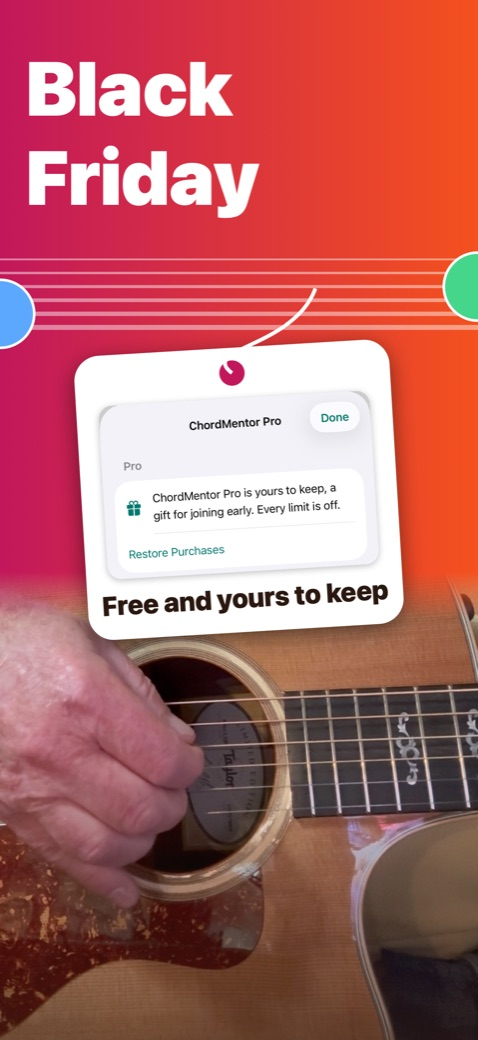
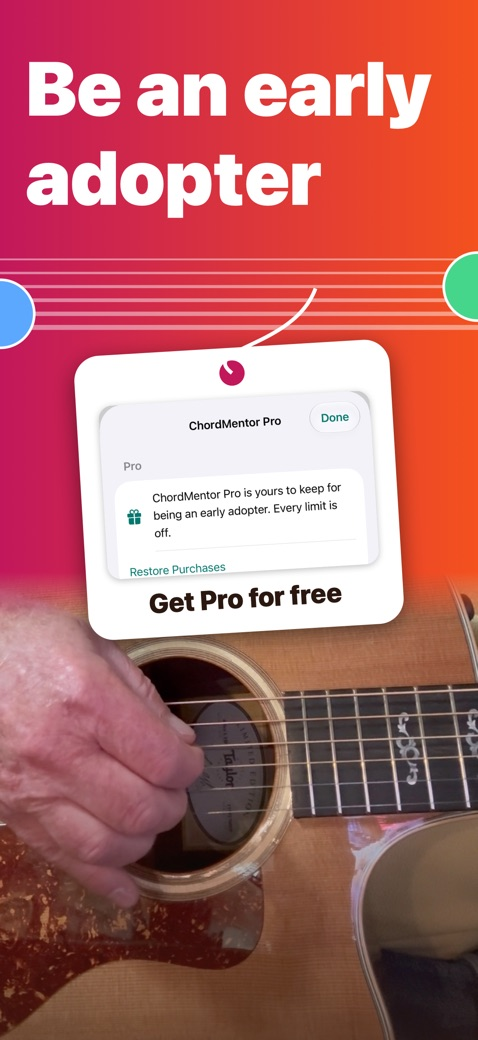
Early adopter offer replaces Black Friday; new mission on the home page; Pro will be a one-time purchase

Changed region(s): [[0.0586, 0.0615, 0.9079, 0.2154], [0.205, 0.4615, 0.8201, 0.6154], [0.41, 0.4, 0.5272, 0.4308]]

diff --git a/index.html b/index.html
@@ -3,32 +3,32 @@
 <head>
 <meta charset="utf-8">
 <meta name="viewport" content="width=device-width, initial-scale=1">
-<title>ChordMentor: Chord Changes</title>
-<meta name="description" content="Finger picking and strum drills for guitarists teaching themselves: change chords on the beat while a guide guitar plays along. iPhone, iPad and Mac. Free to use; Pro is a one-time purchase.">
+<title>ChordMentor: Skills &amp; Drills</title>
+<meta name="description" content="Build the skills behind smooth guitar playing: chord changes that flow, strumming, finger picking, rhythm and timing, new chords and speed, with a guide guitar playing along. iPhone, iPad and Mac. Free to use; Pro will be a one-time purchase.">
 <link rel="icon" href="images/icon.png">
 <link rel="stylesheet" href="style.css">
 </head>
 <body>
-<a class="promo-bar" href="https://apps.apple.com/app/id6827199615">Black Friday deal for early adopters: ChordMentor Pro is free and yours to keep. Download by December 15 ›</a>
+<a class="promo-bar" href="https://apps.apple.com/app/id6827199615">Early adopter offer: download ChordMentor now and Pro is yours to keep. Every limit is off ›</a>
 <header class="hero">
   <img class="icon" src="images/icon.png" alt="" width="96" height="96">
   <h1>ChordMentor</h1>
-  <p class="tag">Finger Picking &amp; Strum Drills</p>
-  <p class="lede">You know the shapes. ChordMentor drills the hard part: changing chords on the beat while you pick or strum, with a guide guitar playing along at the tempo you set.</p>
+  <p class="tag">Guitar skills, one short drill at a time</p>
+  <p class="lede">ChordMentor builds the skills behind smooth playing: chord changes that flow, strumming, finger picking, rhythm and timing, new chords and speed. A guide guitar plays along at the tempo you set, and beat lights show where you are in the pattern.</p>
   <div class="gift-card">
-    <span class="gift-badge"><svg viewBox="0 0 24 24" width="18" height="18" aria-hidden="true"><path fill="currentColor" d="M20 7h-2.2A3 3 0 0 0 12 3.8 3 3 0 0 0 6.2 7H4a1 1 0 0 0-1 1v3a1 1 0 0 0 1 1h7V7h2v5h7a1 1 0 0 0 1-1V8a1 1 0 0 0-1-1Zm-11-.1A1.1 1.1 0 1 1 10.9 6v.9H9a1 1 0 0 1 0-.1Zm6 .1h-2V6A1.1 1.1 0 1 1 15 7ZM4 13v7a1 1 0 0 0 1 1h6v-8H4Zm9 0v8h6a1 1 0 0 0 1-1v-7h-7Z"/></svg> Black Friday deal</span>
-    <p class="gift-price">ChordMentor Pro <s>$4.99</s> <strong>Free</strong></p>
-    <p class="gift-terms">For early adopters: download by December 15 and Pro is yours to keep. Every limit is off, on all your devices.</p>
+    <span class="gift-badge"><svg viewBox="0 0 24 24" width="18" height="18" aria-hidden="true"><path fill="currentColor" d="M20 7h-2.2A3 3 0 0 0 12 3.8 3 3 0 0 0 6.2 7H4a1 1 0 0 0-1 1v3a1 1 0 0 0 1 1h7V7h2v5h7a1 1 0 0 0 1-1V8a1 1 0 0 0-1-1Zm-11-.1A1.1 1.1 0 1 1 10.9 6v.9H9a1 1 0 0 1 0-.1Zm6 .1h-2V6A1.1 1.1 0 1 1 15 7ZM4 13v7a1 1 0 0 0 1 1h6v-8H4Zm9 0v8h6a1 1 0 0 0 1-1v-7h-7Z"/></svg> Early adopter offer</span>
+    <p class="gift-price">ChordMentor Pro <strong>yours to keep</strong></p>
+    <p class="gift-terms">Pro is yours to keep if your first download comes before the offer ends. Every limit is off, on all your devices.</p>
   </div>
   <a class="button" href="https://apps.apple.com/app/id6827199615">Download on the App Store</a>
-  <p class="small">iPhone, iPad and Mac · Free to use · Pro is a one-time purchase</p>
+  <p class="small">iPhone, iPad and Mac · Free to use · Pro will be a one-time purchase</p>
   <div class="strings" aria-hidden="true"><i></i><i></i><i></i><i></i><i></i><i></i><b class="d1"></b><b class="d2"></b><b class="d3"></b><b class="d4"></b></div>
 </header>
 
 <main>
   <section class="shots" aria-label="Screenshots">
     <img src="images/shot-01.jpg" alt="Nail every picking pattern: Travis picking drawn as string lanes, thumb and fingers in their own colors" loading="lazy">
-    <img src="images/shot-02.jpg" alt="Black Friday: ChordMentor Pro is free and yours to keep" loading="lazy">
+    <img src="images/shot-02.jpg" alt="Be an early adopter: get ChordMentor Pro for free" loading="lazy">
     <img src="images/shot-03.jpg" alt="Lock in your muscle memory: strumming with the guide guitar" loading="lazy">
     <img src="images/shot-04.jpg" alt="One hand at a time: Fret Hand, Strum Hand, then Both Hands" loading="lazy">
     <img src="images/shot-05.jpg" alt="Race the clock: Sprint counts your chord changes" loading="lazy">
@@ -77,7 +77,7 @@
   </section>
 
   <section class="price">
-    <h2>Free to use. Pro is a one-time purchase.</h2>
+    <h2>Free to use. Pro will be a one-time purchase.</h2>
     <p>Every screen and routine, every strum and picking pattern, and all 505 chord shapes are free. No account, no ads, no tracking.</p>
     <div class="plans">
       <div>
@@ -93,16 +93,16 @@
       </div>
       <div class="pro">
         <h3>ChordMentor Pro</h3>
-        <p class="cost"><s>$4.99</s> <strong>Free for early adopters</strong></p>
+        <p class="cost"><strong>Yours to keep for early adopters</strong></p>
         <ul>
           <li>Pattern changes partway through a drill, the way a song goes from verse to chorus</li>
           <li>No limits: drills, chords, patterns of your own, drawn chords and Shuffle decks</li>
           <li>On your iPhone, iPad and Mac with one Apple Account</li>
-          <li>Yours to keep: a one-time purchase</li>
+          <li>Yours to keep: it will be a one-time purchase</li>
         </ul>
       </div>
     </div>
-    <p class="gift-note">Black Friday deal for early adopters: download ChordMentor by December 15 and Pro is yours to keep. After that, Pro is $4.99 (U.S. price), once.</p>
+    <p class="gift-note">Early adopter offer: ChordMentor Pro is yours to keep if your first download comes before the offer ends. After that, Pro will be a one-time purchase.</p>
   </section>
 </main>
 

diff --git a/support.html b/support.html
@@ -14,11 +14,11 @@
   <p>Questions, a bug, or an idea for ChordMentor? Email <a href="mailto:chordmentor@nickcoleman.io">chordmentor@nickcoleman.io</a> and say which device you're using.</p>
 
   <h2>Common questions</h2>
-  <p><strong>I downloaded ChordMentor early. Do I have Pro?</strong> Yes, if your first download was before the Black Friday deal for early adopters ended. Update to the latest version and open Settings › ChordMentor Pro: it says Pro is yours to keep. It needs an internet connection the first time.</p>
+  <p><strong>I downloaded ChordMentor early. Do I have Pro?</strong> Yes, if your first download was during the early-adopter offer. Update to the latest version and open Settings › ChordMentor Pro: it says Pro is yours to keep. It needs an internet connection the first time.</p>
   <p><strong>How do I get Pro on my other devices?</strong> Sign in with the same Apple Account. A bought Pro comes back with Settings › ChordMentor Pro › Restore Purchases; the early-adopter deal turns on by itself.</p>
   <p><strong>Sprint doesn't hear my strums.</strong> Make sure ChordMentor has microphone access in your device's Settings, keep the device within arm's reach of the guitar, and raise Sensitivity in Sprint's Options.</p>
   <p><strong>Where are the tips?</strong> Settings › Show tips turns them on or off. A tip's × closes just that one; Settings brings back any you closed.</p>
-  <p><strong>What does Pro cost?</strong> ChordMentor is free to use. Pro is a one-time purchase, and the price is shown in the app.</p>
+  <p><strong>What does Pro cost?</strong> ChordMentor is free to use. Pro will be a one-time purchase once it's on sale, with the price shown in the app. Until then, early adopters get Pro, theirs to keep.</p>
 </div>
 </body>
 </html>

diff --git a/style.css b/style.css
@@ -41,7 +41,7 @@ main, footer, .page { max-width: 1040px; margin: 0 auto; padding: 0 20px; }
 h1 { font-size: 52px; line-height: 1.1; margin: 20px 0 8px; letter-spacing: -0.5px; font-weight: 900; }
 .tag { font-size: 22px; font-weight: 700; margin: 0 0 16px; color: #ffe4b0; }
 .lede { max-width: 640px; margin: 0 auto 20px; color: rgba(255, 255, 255, 0.92); }
-/* The Black Friday gift: a bar across the top and a card in the hero. */
+/* The early-adopter offer: a bar across the top and a card in the hero. */
 .promo-bar {
   display: block; text-align: center; padding: 10px 16px; font-weight: 700; font-size: 15px;
   background: var(--walnut); color: #ffe4b0; text-decoration: none;
